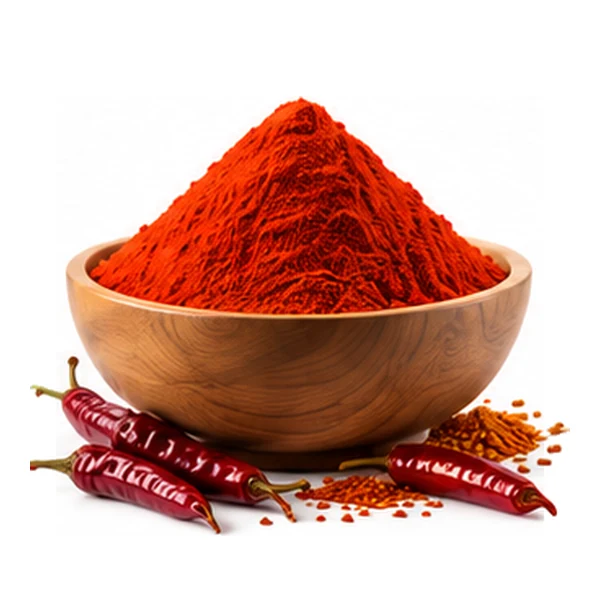
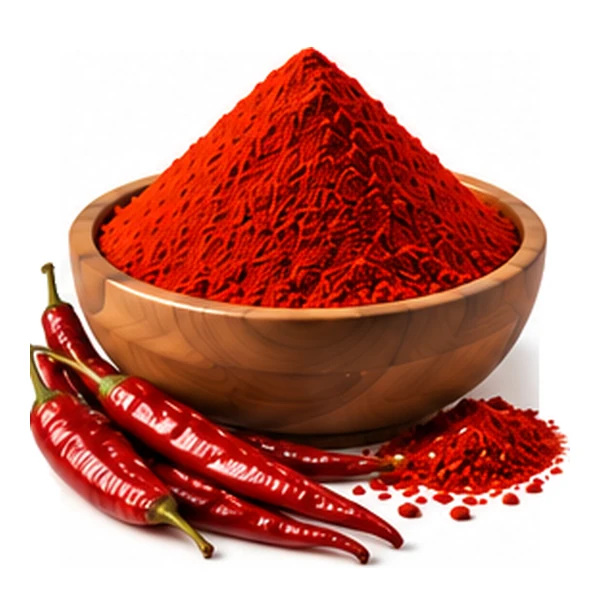
feat(imagery): add the client's photographs for Masala Powders and Spices
Supplied 2026-09-11 as one sheet in two bands, each card named:
- Masala Powders: Chicken Biryani, Mutton Biryani, Fish Curry and
  Non-Veg. The sheet puts Non-Veg last, not first, so each card is mapped
  by its printed name rather than its position.
- Spices: Turmeric, Red Chilli, Coriander, Black Pepper and Rasam Powder.

Every product in the catalogue now has a photograph (63 of 63).

Red Chilli Powder, the last photo still taken from the Featured Products
sheet, now comes from this one, so that sheet and extract_featured.py are
retired (both remain in history).

diff --git a/apps/web/src/lib/imagery.ts b/apps/web/src/lib/imagery.ts
@@ -95,16 +95,11 @@ export const imagery: {
       { src: `/images/categories/${slug}.webp`, alt: alt!, width: 480, height: 360 },
     ]),
   ),
-  // Supplied by the client, 2026-09-10, as eight sheets; each photo cut out
-  // and re-centred at one scale (assets/products/).
-  //   - The Featured Products sheet: red chilli powder. Its Dehydrated Banana
-  //     and Ragi Flour are not in the catalogue; its Dehydrated Mango, Mango
-  //     Pickle and Gongura Pickle are superseded by the category sheets.
-  //   - The Powders, Flakes, Dehydrated Fruits, Pickles, Dal Powders, Crisps
-  //     and Dry Fruits, and Millet and Tea / Coffee sheets: every card, one
-  //     per product in those categories, each named on its card.
-  //     The pickle jars' labels are part of the generated image, not real
-  //     packaging.
+  // Supplied by the client, 2026-09-10, as one sheet per range; each photo cut
+  // out and re-centred at one scale (assets/products/). Every product in the
+  // catalogue has one, each mapped by the name printed on its card. (The
+  // earlier Featured Products sheet is superseded by these.) The pickle jars'
+  // labels are part of the generated image, not real packaging.
   // Alt text describes what each photograph shows, and nothing more.
   products: Object.fromEntries(
     [
@@ -142,7 +137,15 @@ export const imagery: {
       ["masala-tea-powder", "Wooden bowl of masala tea powder with cinnamon, cardamom, cloves and ginger"],
       ["lemon-tea-powder", "Wooden bowl of lemon tea powder with lemons and loose tea"],
       ["green-tea-powder", "Wooden bowl of green tea powder with fresh tea leaves and loose tea"],
+      ["masala-powders-chicken-biryani", "Wooden bowl of masala powder beside a pot of chicken biryani"],
+      ["masala-powders-mutton-biryani", "Wooden bowl of masala powder beside a pot of mutton biryani"],
+      ["masala-powders-fish-curry", "Wooden bowl of masala powder beside a pan of fish curry"],
+      ["masala-powders-non-veg", "Wooden bowl of masala powder with raw chicken, meat and fish"],
+      ["turmeric-powder", "Wooden bowl of turmeric powder with fresh turmeric roots"],
       ["red-chilli-powder", "Wooden bowl of red chilli powder with dried red chillies"],
+      ["coriander-powder", "Wooden bowl of coriander powder with coriander seeds and leaves"],
+      ["black-pepper-powder", "Wooden bowl of black pepper powder with a scoop of peppercorns"],
+      ["rasam-powder", "Wooden bowl of rasam powder with tomatoes, red chillies and spices"],
       ["moringa-powder", "Wooden bowl of moringa powder with moringa leaves"],
       ["banana-powder", "Wooden bowl of banana powder with bananas and banana slices"],
       ["lemon-powder", "Wooden bowl of lemon powder with lemons and lemon slices"],

diff --git a/assets/products/extract_product_sheets.py b/assets/products/extract_product_sheets.py
@@ -10,15 +10,20 @@ Input   assets/products/powders-supplied.png       13 cards (2092 x 752)
         assets/products/dal-powders-supplied.png   4 cards (2092 x 752)
         assets/products/crisps-dry-fruits-supplied.png  8 cards (1536 x 1024)
         assets/products/millet-tea-coffee-supplied.png  9 cards (1536 x 1024)
+        assets/products/masala-spices-supplied.png      9 cards (1536 x 1024)
 Output  apps/web/public/images/products/{slug}.webp  one square image each
 
-Same method as extract_featured.py: card edges measured from the sheet's own
-border lines; the printed name under each photograph left behind; the product
-trimmed to its outline, shadow included, and re-centred on white at one fill.
+Card edges measured from the sheet's own border lines; the printed name under
+each photograph left behind; the product trimmed to its outline, shadow
+included, and re-centred on white at one fill.
+
+The client's earlier Featured Products sheet (and its script,
+extract_featured.py) is retired: each of its photographs that pictured a
+catalogue product has been superseded by that category's sheet here. Both
+remain in git history.
 
 Each sheet has two rows of different card widths, so each card carries its
-own box. The cards are in the catalogue's order, and each is named for the
-product whose name is printed on it.
+own box, and each is named for the product whose name is printed on it.
 """
 import json
 import os
@@ -64,7 +69,7 @@ FLAKES = [
 ]
 
 # Dehydrated Fruits sheet: three cards in each row. Its Mango card replaces
-# the Featured sheet's (see extract_featured.py), so the six fruits match.
+# the Featured sheet's, so the six fruits match.
 D_ROW_1 = (12, 436)
 D_ROW_2 = (452, 874)
 FRUITS = [
@@ -133,6 +138,24 @@ MILLET_TEA_COFFEE = [
     ("green-tea-powder", (1153, 1521), T_ROW),
 ]
 
+# Masala and Spices sheet: four cards under "Masala Powders (Non-Veg)", five
+# under "Spices". The Masala cards are in a different order from the
+# catalogue (Non-Veg last, not first), so each is mapped by the name printed
+# on it. Its Red Chilli Powder replaces the Featured sheet's.
+S_ROW_1 = (82, 511)     # Masala Powders
+S_ROW_2 = (603, 986)    # Spices
+MASALA_SPICES = [
+    ("masala-powders-chicken-biryani", (16, 385), S_ROW_1),  # "Chicken Biryani Masala Powder"
+    ("masala-powders-mutton-biryani", (393, 764), S_ROW_1),  # "Mutton Biryani Masala Powder"
+    ("masala-powders-fish-curry", (772, 1143), S_ROW_1),     # "Fish Curry Masala Powder"
+    ("masala-powders-non-veg", (1151, 1519), S_ROW_1),       # "Non-Veg Masala Powder (Confirmation Required)"
+    ("turmeric-powder", (16, 315), S_ROW_2),
+    ("red-chilli-powder", (323, 614), S_ROW_2),
+    ("coriander-powder", (623, 912), S_ROW_2),
+    ("black-pepper-powder", (920, 1212), S_ROW_2),
+    ("rasam-powder", (1221, 1519), S_ROW_2),
+]
+
 SHEETS = [
     ("powders-supplied.png", POWDERS),
     ("flakes-supplied.png", FLAKES),
@@ -141,6 +164,7 @@ SHEETS = [
     ("dal-powders-supplied.png", DAL_POWDERS),
     ("crisps-dry-fruits-supplied.png", CRISPS_DRY_FRUITS),
     ("millet-tea-coffee-supplied.png", MILLET_TEA_COFFEE),
+    ("masala-spices-supplied.png", MASALA_SPICES),
 ]
 
 TILE = 600      # square, matching the product card's image area, ~2x its size
